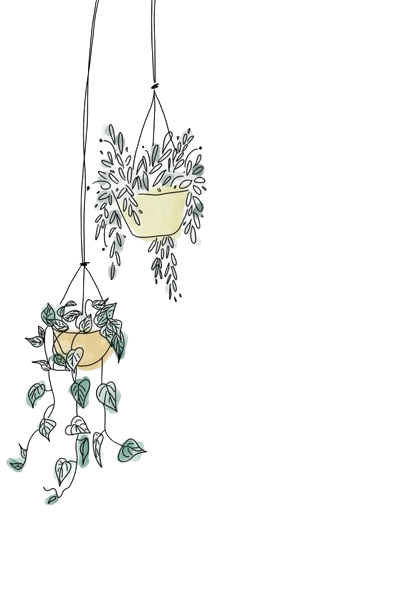
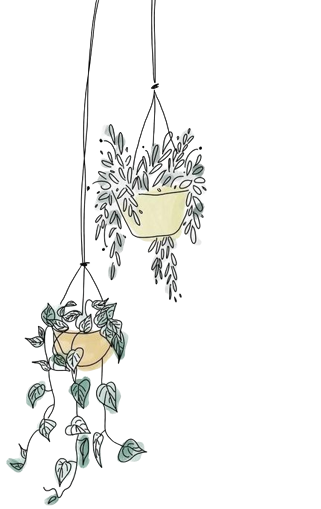
Termine de posicionar bien el header y acomode la imagen del bkg para que quede fija

Changed region(s): [[0.0, 0.0, 0.6542, 1.0], [0.0, 0.8546, 0.0935, 0.943], [0.2804, 0.0, 0.3115, 0.1179]]

diff --git a/style/style.css b/style/style.css
@@ -1,16 +1,17 @@
 .body {
     margin-top: 0%;
     margin-left: 0%;
-    background-image:url(/img/Otros/fondoDelHeader.png);
+    background-image:url(/img/Otros/FondodelHeader.png);
     background-repeat:no-repeat;
-    background-position:right;
+    background-position: right 155px;
     background-attachment:fixed;
     
 }
 /* clases del Header */
 .container-header {
-    background-color: #5F5F2D; 
+    background-color: #5F5F2D;
     position: fixed;
+    top: 0;
     width: 100%; 
 }
 .container-nav {
@@ -31,9 +32,7 @@
 .link1 {
     grid-area: 2 / 2 / 3 /3;
     align-self: center;
-    justify-self: center;
-    
-    
+    justify-self: center;  
 }
 
 .link2 {
@@ -69,3 +68,18 @@
 }
 
 /* clases del Main */
+.h1 {
+    font-family: 'Bree Serif', serif;
+    font-size: 40px;
+    text-decoration: underline;
+    color: #614827;
+}
+.p-titulo {
+    font-family: 'Cormorant Infant', serif;
+    font-size: 40px;
+    color: #987347;
+}
+.introduccion {
+    margin-top: 250px;
+    text-align: center;
+}

diff --git a/html/index.html b/html/index.html
@@ -31,8 +31,8 @@
 
     <main>
         <section class="introduccion">
-            <div><h1>Aprende a amar las plantas con nosotros</h1></div>
-            <div><p>somos SimsPlants y queremos mostrar que tu espacio puede ser mas hermoso y lleno de vida con plantas al rededor, afuera o adentro van a hacer que todo sea vea mas lindo y verde. Explora la pagina para apender mas.</p></div>  
+            <div class="h1"><h1>Aprende a amar las plantas con nosotros</h1></div>
+            <div class="p-titulo"><p>Somos SimsPlants y queremos mostrar que tu espacio puede ser mas hermoso y lleno de vida con plantas al rededor, afuera o adentro van a hacer que todo sea vea mas lindo y verde. Explora la pagina para apender mas.</p></div>  
         </section>
 
         <section>
